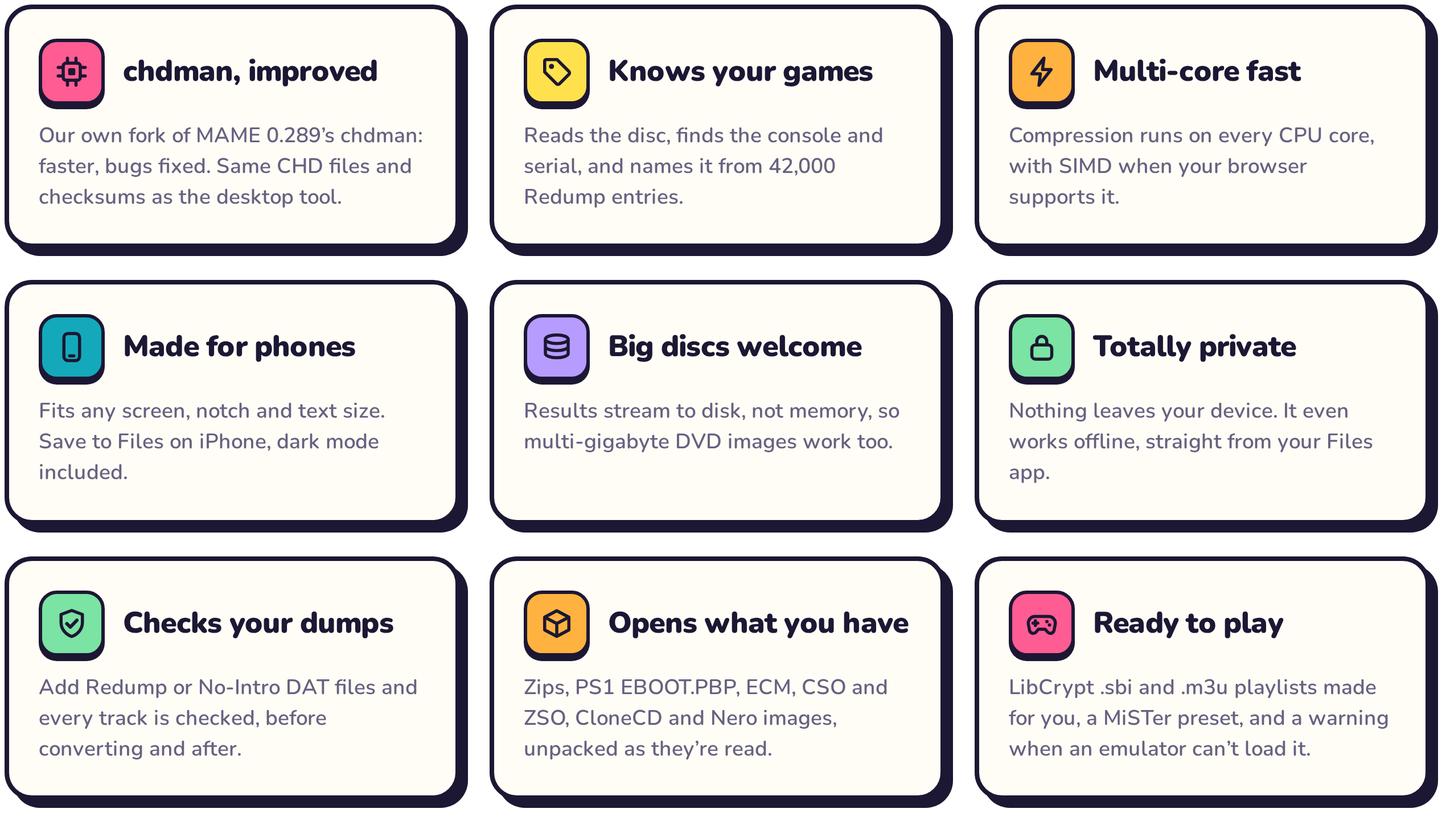
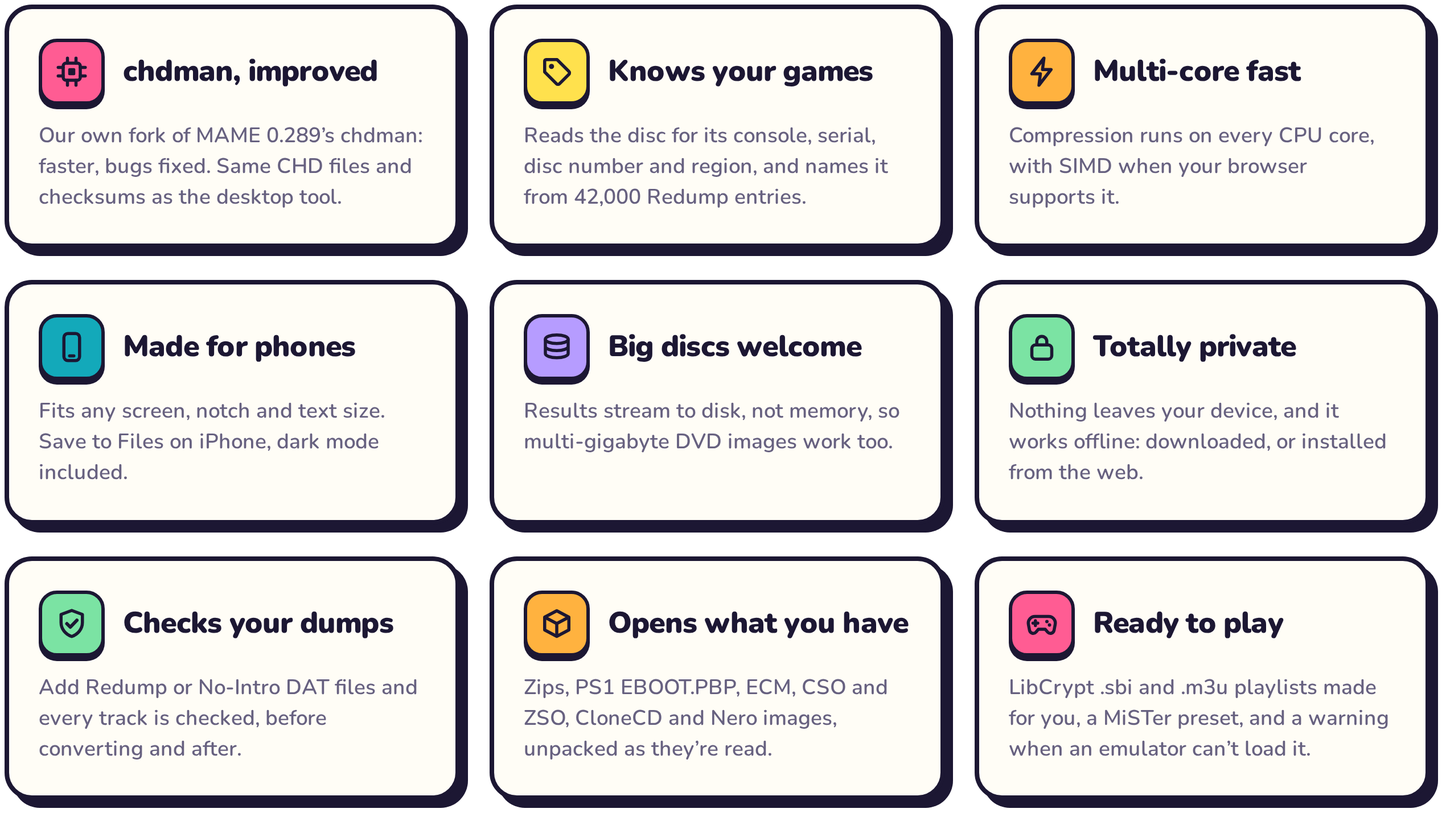
README: clearer layout, badges, what's new in 1.7, every 1.7.0 rule in the emulator tables
The graphics add Jaguar CD and PC-98, and the emulator cards cover the
settings, warnings and refusals of 1.7.0; the screenshot moves up next to
How it works, and FAQ answers render their links and code on GitHub.

Claude-Session: https://claude.ai/code/session_018W8bj2oysf1HsSk9v8vACp

Changed region(s): [[0.3421, 0.1532, 0.622, 0.2451], [0.7776, 0.4903, 0.9642, 0.5515], [0.6843, 0.5515, 0.7776, 0.5822]]

diff --git a/scripts/brand/brand.html b/scripts/brand/brand.html
@@ -219,11 +219,11 @@ body { font-family: var(--display); color: var(--text); -webkit-font-smoothing: 
 <!-- FEATURES -->
 <div class="scene feat" id="features"><div class="grid">
   <div class="f"><div class="top"><div class="icon" style="background:var(--accent)"><svg><use href="#i-chip"/></svg></div><h3>chdman, improved</h3></div><p>Our own fork of MAME 0.289’s chdman: faster, bugs fixed. Same CHD files and checksums as the desktop tool.</p></div>
-  <div class="f"><div class="top"><div class="icon" style="background:var(--accent-3)"><svg><use href="#i-tag"/></svg></div><h3>Knows your games</h3></div><p>Reads the disc, finds the console and serial, and names it from 42,000 Redump entries.</p></div>
+  <div class="f"><div class="top"><div class="icon" style="background:var(--accent-3)"><svg><use href="#i-tag"/></svg></div><h3>Knows your games</h3></div><p>Reads the disc for its console, serial, disc number and region, and names it from 42,000 Redump entries.</p></div>
   <div class="f"><div class="top"><div class="icon" style="background:var(--accent-2)"><svg><use href="#i-bolt"/></svg></div><h3>Multi-core fast</h3></div><p>Compression runs on every CPU core, with SIMD when your browser supports it.</p></div>
   <div class="f"><div class="top"><div class="icon" style="background:var(--cyan)"><svg><use href="#i-phone"/></svg></div><h3>Made for phones</h3></div><p>Fits any screen, notch and text size. Save to Files on iPhone, dark mode included.</p></div>
   <div class="f"><div class="top"><div class="icon" style="background:#b69cff"><svg><use href="#i-stack"/></svg></div><h3>Big discs welcome</h3></div><p>Results stream to disk, not memory, so multi-gigabyte DVD images work too.</p></div>
-  <div class="f"><div class="top"><div class="icon" style="background:#7be3a3"><svg><use href="#i-lock"/></svg></div><h3>Totally private</h3></div><p>Nothing leaves your device. It even works offline, straight from your Files app.</p></div>
+  <div class="f"><div class="top"><div class="icon" style="background:#7be3a3"><svg><use href="#i-lock"/></svg></div><h3>Totally private</h3></div><p>Nothing leaves your device, and it works offline: downloaded, or installed from the web.</p></div>
   <div class="f"><div class="top"><div class="icon" style="background:#7be3a3"><svg><use href="#i-shield"/></svg></div><h3>Checks your dumps</h3></div><p>Add Redump or No-Intro DAT files and every track is checked, before converting and after.</p></div>
   <div class="f"><div class="top"><div class="icon" style="background:var(--accent-2)"><svg><use href="#i-box"/></svg></div><h3>Opens what you have</h3></div><p>Zips, PS1 EBOOT.PBP, ECM, CSO and ZSO, CloneCD and Nero images, unpacked as they’re read.</p></div>
   <div class="f"><div class="top"><div class="icon" style="background:var(--accent)"><svg><use href="#i-pad"/></svg></div><h3>Ready to play</h3></div><p>LibCrypt .sbi and .m3u playlists made for you, a MiSTer preset, and a warning when an emulator can’t load it.</p></div>
@@ -241,12 +241,15 @@ body { font-family: var(--display); color: var(--text); -webkit-font-smoothing: 
 
 <!-- EMULATORS -->
 <div class="scene feat" id="emulators"><div class="grid">
-  <div class="f"><div class="top"><div class="icon" style="background:var(--accent-3)"><svg><use href="#i-alert"/></svg></div><h3>Warns in time</h3></div><p>Says when an emulator can’t read Zstd, or load a disc like this one, before you convert.</p></div>
-  <div class="f"><div class="top"><div class="icon" style="background:#b69cff"><svg><use href="#i-key"/></svg></div><h3>LibCrypt .sbi</h3></div><p>Saved next to a PAL PlayStation CHD under its name, or made from a CloneCD .sub.</p></div>
-  <div class="f"><div class="top"><div class="icon" style="background:var(--cyan)"><svg><use href="#i-list"/></svg></div><h3>.m3u playlists</h3></div><p>For games on several discs, so the emulator can swap them.</p></div>
-  <div class="f"><div class="top"><div class="icon" style="background:var(--accent)"><svg><use href="#i-chip"/></svg></div><h3>MiSTer preset</h3></div><p>Zstd and FLAC in small hunks, fast enough for MiSTer’s CD cores.</p></div>
+  <div class="f"><div class="top"><div class="icon" style="background:var(--cyan)"><svg><use href="#i-disc"/></svg></div><h3>The right CHD</h3></div><p>CD or DVD, and the hunk size each console’s emulators want, set when the game is recognized.</p></div>
+  <div class="f"><div class="top"><div class="icon" style="background:#7be3a3"><svg><use href="#i-check"/></svg></div><h3>Boots as it should</h3></div><p>Saturn and Sega CD CHDs skip the cue sheet their emulators reject; NAOMI GD-ROMs keep their romset name.</p></div>
+  <div class="f"><div class="top"><div class="icon" style="background:var(--accent-3)"><svg><use href="#i-alert"/></svg></div><h3>Warns in time</h3></div><p>Says when an emulator can’t read Zstd, or misreads a disc’s sessions, gaps or tracks, before you convert.</p></div>
+  <div class="f"><div class="top"><div class="icon" style="background:#b69cff"><svg><use href="#i-key"/></svg></div><h3>LibCrypt .sbi</h3></div><p>Saved next to a PAL PlayStation CHD, made from a CloneCD .sub, and asked for when a protected game has none.</p></div>
+  <div class="f"><div class="top"><div class="icon" style="background:var(--cyan)"><svg><use href="#i-list"/></svg></div><h3>Whole sets</h3></div><p>An .m3u playlist for games on several discs, and a note of the discs a set still needs.</p></div>
+  <div class="f"><div class="top"><div class="icon" style="background:var(--accent)"><svg><use href="#i-chip"/></svg></div><h3>MiSTer preset</h3></div><p>Zstd and FLAC in small hunks, fast enough for MiSTer’s CD cores, and a warning where it has none.</p></div>
   <div class="f"><div class="top"><div class="icon" style="background:#7be3a3"><svg><use href="#i-phone"/></svg></div><h3>Android PS2</h3></div><p>CD CHDs of DVD games, the only kind AetherSX2 and NetherSX2 read.</p></div>
-  <div class="f"><div class="top"><div class="icon" style="background:var(--accent-2)"><svg><use href="#i-info"/></svg></div><h3>Says what won’t</h3></div><p>GameCube, Wii, Xbox and PS3 discs are recognized, with a note that their emulators skip CHDs.</p></div>
+  <div class="f"><div class="top"><div class="icon" style="background:var(--accent-2)"><svg><use href="#i-info"/></svg></div><h3>Says what won’t</h3></div><p>GameCube, Wii, Xbox, PS3 and video discs are recognized, with a note that their players skip CHDs.</p></div>
+  <div class="f"><div class="top"><div class="icon" style="background:var(--surface-2)"><svg style="color:var(--text)"><use href="#i-x"/></svg></div><h3>Refuses what breaks</h3></div><p>Discs chdman 0.289 would store wrong, such as CD+G tracks, get a card that says why instead of a bad CHD.</p></div>
 </div></div>
 
 <!-- SYSTEMS -->
@@ -275,14 +278,14 @@ document.getElementById('showDesk').src = shots + 'desktop-' + theme + '.png';
 document.getElementById('showPhone').src = shots + 'phone-start-' + theme + '.png';
 var C = { ps1: ['#c8c8d4', '#1c1733'], ps2: ['#2f5bd3', '#fff'], psp: ['#26262e', '#fff'], saturn: ['#4a4f63', '#fff'], segacd: ['#1f4ea8', '#fff'],
   dc: ['#ff7a1a', '#1c1733'], naomi: ['#6a4fb8', '#fff'], pcecd: ['#f1ead6', '#1c1733'], pcfx: ['#3a3a44', '#fff'], ngcd: ['#d9b23a', '#1c1733'],
-  '3do': ['#b01e2f', '#fff'], cdi: ['#1c6fb8', '#fff'], cd32: ['#e11d48', '#fff'], cdtv: ['#33333d', '#fff'], hd: ['#13a9ba', '#1c1733'], ld: ['#ffe14d', '#1c1733'] };
+  '3do': ['#b01e2f', '#fff'], cdi: ['#1c6fb8', '#fff'], cd32: ['#e11d48', '#fff'], cdtv: ['#33333d', '#fff'], jagcd: ['#d62828', '#fff'], pc98: ['#5b6b7a', '#fff'], hd: ['#13a9ba', '#1c1733'], ld: ['#ffe14d', '#1c1733'] };
 function chip(k, label) { var s = document.createElement('span'); s.className = 'chip'; s.textContent = label; s.style.background = C[k][0]; s.style.color = C[k][1]; return s; }
 [['ps1', 'PS1'], ['ps2', 'PS2'], ['psp', 'PSP'], ['saturn', 'Saturn'], ['dc', 'Dreamcast'], ['segacd', 'Sega CD']].forEach(function (c) { document.getElementById('heroChips').appendChild(chip(c[0], c[1])); });
-var more = document.createElement('span'); more.className = 'chip'; more.textContent = '+ 10 more'; more.style.background = 'var(--surface)'; more.style.color = 'var(--text)';
+var more = document.createElement('span'); more.className = 'chip'; more.textContent = '+ 12 more'; more.style.background = 'var(--surface)'; more.style.color = 'var(--text)';
 document.getElementById('heroChips').appendChild(more);
 [['ps1', 'PlayStation'], ['ps2', 'PlayStation 2'], ['psp', 'PSP'], ['saturn', 'Saturn'], ['segacd', 'Sega CD · Mega CD'], ['dc', 'Dreamcast'], ['naomi', 'NAOMI'],
  ['pcecd', 'PC Engine CD · TurboGrafx-CD'], ['pcfx', 'PC-FX'], ['ngcd', 'Neo Geo CD'], ['3do', '3DO'], ['cdi', 'CD-i'], ['cd32', 'Amiga CD32'], ['cdtv', 'CDTV'],
- ['hd', 'Arcade hard disks'], ['ld', 'LaserDisc']].forEach(function (c) { document.getElementById('sysWrap').appendChild(chip(c[0], c[1])); });
+ ['jagcd', 'Jaguar CD'], ['pc98', 'PC-98'], ['hd', 'Arcade hard disks'], ['ld', 'LaserDisc']].forEach(function (c) { document.getElementById('sysWrap').appendChild(chip(c[0], c[1])); });
 </script>
 </body>
 </html>

diff --git a/README.md b/README.md
@@ -23,6 +23,10 @@
 </p>
 
 <p align="center">
+  <a href="https://github.com/PowerBeef/discpress/releases/latest"><img src="https://img.shields.io/github/v/release/PowerBeef/discpress?label=latest&color=ff5c93" alt="Latest release"></a>
+  <a href="https://github.com/PowerBeef/discpress/actions/workflows/ci.yml"><img src="https://github.com/PowerBeef/discpress/actions/workflows/ci.yml/badge.svg" alt="CI"></a>
+  <a href="LICENSE"><img src="https://img.shields.io/badge/license-BSD--3--Clause-13a9ba" alt="BSD 3-Clause license"></a>
+  <br><br>
   <b>Free and open source</b> &nbsp;·&nbsp; <b>No install</b> &nbsp;·&nbsp; <b>Nothing uploaded</b> &nbsp;·&nbsp; <b>Phone and desktop</b>
   <br><br>
   <a href="#how-it-works">How it works</a> &nbsp;·&nbsp;
@@ -34,15 +38,24 @@
   <a href="#build-it-yourself">Build it yourself</a>
 </p>
 
+> [!TIP]
+> **New in 1.7: Discpress knows your games better.** US Sega discs, second discs and regional releases get their right names; Jaguar CD, Video CD and more discs are recognized; and you are warned before you make a CHD your emulator can't play. [See what's new](https://github.com/PowerBeef/discpress/releases/latest).
+
 <img src="docs/brand/divider.png" width="100%" alt="">
 
 ## What is Discpress?
 
-A single PlayStation or Saturn game can be a dozen `.bin` files plus a `.cue`. **CHD** packs the whole disc into one compressed file that takes much less space, loses nothing, and loads directly in MAME, RetroArch, DuckStation, PCSX2, PPSSPP, Flycast, MiSTer and more.
+A single PlayStation or Saturn game can be a dozen `.bin` files plus a `.cue`. **CHD** packs the whole disc into one compressed file: much smaller, nothing lost, and loaded directly by MAME, RetroArch, DuckStation, PCSX2, PPSSPP, Flycast, MiSTer and more.
 
-The standard tool for making CHDs is **chdman**, a command-line program from the MAME project. **Discpress** puts its own fork of chdman (MAME 0.289, faster, with its bugs fixed) inside a friendly app that runs in your browser, on your phone or your computer. It makes the very same CHD files as chdman 0.289, names each game after its official title, checks your dumps, and opens the formats your games come in. Nothing to install, and your files never leave your device.
+The standard tool for making CHDs is **chdman**, a command-line program from the MAME project. **Discpress** runs its own fork of chdman (MAME 0.289, faster, with its bugs fixed) in a friendly app in your browser, on your phone or your computer. It:
 
-**Download it** as one HTML file that works anywhere, even offline, or **use it online** with nothing to download: the way to convert big games on iPhone and iPad.
+- makes **the very same CHD files** as chdman 0.289;
+- **names each game** after its official title, from the Redump database;
+- **checks your dumps** against Redump and your DAT files;
+- **opens the files your games come in**: cue sheets, `.gdi`, `.iso`, `.zip`, ECM, CSO, `EBOOT.PBP` and more;
+- **warns you** before you make a CHD your emulator can't play.
+
+There is nothing to install, and your files never leave your device. **Download it** as one HTML file that works anywhere, even offline, or **use it online** with nothing to download (the way to convert big games on iPhone and iPad).
 
 ## How it works
 
@@ -55,6 +68,13 @@ The standard tool for making CHDs is **chdman**, a command-line program from the
   </picture>
 </p>
 
+<p align="center">
+  <picture>
+    <source media="(prefers-color-scheme: dark)" srcset="docs/brand/showcase-dark.png">
+    <img src="docs/brand/showcase-light.png" width="100%" alt="Discpress on a desktop browser with a Saturn game converted and a PlayStation disc identified as Metal Gear Solid (USA) (Disc 1), next to the phone version.">
+  </picture>
+</p>
+
 ## Features
 
 <p align="center">
@@ -62,7 +82,7 @@ The standard tool for making CHDs is **chdman**, a command-line program from the
     <source media="(max-width: 600px) and (prefers-color-scheme: dark)" srcset="docs/brand/features-mobile-dark.png">
     <source media="(max-width: 600px)" srcset="docs/brand/features-mobile-light.png">
     <source media="(prefers-color-scheme: dark)" srcset="docs/brand/features-dark.png">
-    <img src="docs/brand/features-light.png" width="100%" alt="chdman, improved. Knows your games. Multi-core fast. Made for phones. Big discs welcome. Totally private. Checks your dumps. Opens what you have. Ready to play.">
+    <img src="docs/brand/features-light.png" width="100%" alt="chdman, improved. Knows your games: console, serial, disc number and region, named from 42,000 Redump entries. Multi-core fast. Made for phones. Big discs welcome. Totally private. Checks your dumps. Opens what you have. Ready to play.">
   </picture>
 </p>
 
@@ -72,15 +92,15 @@ The standard tool for making CHDs is **chdman**, a command-line program from the
 
 **Converting**
 
-- **Real chdman output.** Discpress makes standard CHD v5 files, byte for byte the same as desktop chdman 0.289 makes on Linux, with the same checksums as any chdman 0.289.
-- **The right command, picked for you:** `createcd`, `createdvd`, `createhd`, `createld`, `extractcd`, `extractdvd`, `extracthd`, `verify` and `info`, with the type and hunk size each console's emulators need. The **Advanced** tab gives you every chdman command and option, including `copy`, parent CHDs, `addmeta` and hard disk templates.
+- **Real chdman output.** Standard CHD v5 files, byte for byte the same as desktop chdman 0.289 makes on Linux, with the same checksums as any chdman 0.289.
+- **The right command, picked for you:** `createcd`, `createdvd`, `createhd`, `createld`, `extractcd`, `extractdvd`, `extracthd`, `verify` and `info`, with the type and hunk size each console's emulators need. The **Advanced** tab has every chdman command and option, including `copy`, parent CHDs, `addmeta` and hard disk templates.
 - **Compression to suit you.** *Smallest* (the default) is chdman's own. *Nearly as small, faster* tries each track only with the codec that suits it: about 1.7 times as fast for CDs, at most 0.3% bigger, same checksums. *Faster to create*, *Faster to load (Zstd)*, *For MiSTer FPGA* and *No compression* are there too.
 - **Fast.** Compression is spread over all your CPU cores, with WebAssembly SIMD when your browser supports it. Extracting and verifying use several cores too.
 - **Back again.** A CHD extracts to its Redump dump: the same cue sheet and one `.bin` per track, so the files match Redump's checksums. Settings → *Keep the cue sheet in CD CHDs* also keeps what a CHD doesn't otherwise hold (CATALOG, FLAGS, ISRC, extra indexes), for discs that have it.
 
 **Knowing your games**
 
-- **Game recognition.** Discpress reads the disc's own boot files to find the console and serial number, then looks the game up in a built-in copy of the [Redump](http://redump.org) database (about 42,000 discs). When the size and CRC-32 match, the dump is marked as verified. When several releases share a serial number, you choose which one.
+- **Game recognition.** Discpress reads the disc's own boot files to find the console, the serial number, which disc of a set it is and its region. It then looks the game up in a built-in copy of the [Redump](http://redump.org) database (about 42,000 discs). When the size and CRC-32 match, the dump is marked as verified. When several releases still fit, you choose which one.
 - **Official names.** For example `Metal Gear Solid (USA) (Disc 1).chd`. You can also type your own name, turn renaming off, or use **Rename** to fix the name of a CHD you already have.
 - **Your DAT files.** Add Redump or No-Intro DAT files (the `.dat` or `.xml`, or the `.zip` they come in) and every track of a disc is checked against them by size and CRC-32: before converting, and for a CHD after **Verify**, without extracting it. A disc whose every track matches is named after its DAT entry. The DATs are kept in the browser for your next visits.
 - **Verify** checks a CHD's own checksums, then compares it with Redump without extracting it.
@@ -89,13 +109,14 @@ The standard tool for making CHDs is **chdman**, a command-line program from the
 
 - **Archives and packed images are opened as they are read:** `.zip` archives (zip64 included), ECM images (`.bin.ecm`), CSO and ZSO compressed ISOs, and PlayStation `EBOOT.PBP` files made with popstation, one card per disc. Each is checked as it is unpacked.
 - **Disc images of every common kind:** cue sheets and their tracks, Dreamcast `.gdi` sets, `.iso` images (2,048- or 2,352-byte sectors), CloneCD (`.ccd` + `.img` + `.sub`), Nero (`.nrg`) and cdrdao (`.toc`). Cue sheets in odd encodings, with lower-case keywords or Windows line ends, are read correctly.
-- **Clear refusals.** Formats chdman can't take (DiscJuggler `.cdi`, Alcohol 120% `.mds`/`.mdf`, `.isz`, `.7z`, `.rar`) get a card that says why and what to do instead.
+- **Clear refusals.** Formats chdman can't take (DiscJuggler `.cdi`, Alcohol 120% `.mds`/`.mdf`, `.isz`, `.7z`, `.rar`), and discs chdman 0.289 would store wrong (CD+G tracks), get a card that says why and what to do instead.
 
 **Ready for your emulator** (see [below](#ready-for-your-emulator))
 
-- **LibCrypt `.sbi` files** for PAL PlayStation games: one you add (or DuckStation's `.lsd`) is saved next to the CHD under its name, for a CloneCD dump the page makes it from the `.sub` file, and a protected game added without one says so.
-- **`.m3u` playlists** for games on several discs, so the emulator can swap them.
-- **Warnings where an emulator can't load the result**, and settings that suit the console's emulators.
+- **Settings that boot:** the CHD type and hunk size each console needs, and nothing its emulators reject.
+- **LibCrypt `.sbi` files** for PAL PlayStation games: one you add (or DuckStation's `.lsd`) is saved next to the CHD under its name, a CloneCD dump's is made from its `.sub` file, and a protected game added without one says so.
+- **`.m3u` playlists** for games on several discs, so the emulator can swap them, and a note of the discs a set still needs.
+- **Warnings where an emulator can't load the result**, before you convert.
 
 **Phones, big files and privacy**
 
@@ -112,7 +133,7 @@ The standard tool for making CHDs is **chdman**, a command-line program from the
     <source media="(max-width: 600px) and (prefers-color-scheme: dark)" srcset="docs/brand/systems-mobile-dark.png">
     <source media="(max-width: 600px)" srcset="docs/brand/systems-mobile-light.png">
     <source media="(prefers-color-scheme: dark)" srcset="docs/brand/systems-dark.png">
-    <img src="docs/brand/systems-light.png" width="100%" alt="PlayStation, PlayStation 2, PSP, Saturn, Sega CD / Mega CD, Dreamcast, NAOMI, PC Engine CD / TurboGrafx-CD, PC-FX, Neo Geo CD, 3DO, CD-i, Amiga CD32, CDTV, arcade hard disks and LaserDisc.">
+    <img src="docs/brand/systems-light.png" width="100%" alt="PlayStation, PlayStation 2, PSP, Saturn, Sega CD / Mega CD, Dreamcast, NAOMI, PC Engine CD / TurboGrafx-CD, PC-FX, Neo Geo CD, 3DO, CD-i, Amiga CD32, CDTV, Jaguar CD, PC-98, arcade hard disks and LaserDisc.">
   </picture>
 </p>
 
@@ -132,13 +153,15 @@ The standard tool for making CHDs is **chdman**, a command-line program from the
 | System | Add these files | Becomes |
 |---|---|---|
 | PlayStation | `.cue` + `.bin`, CloneCD `.ccd` + `.img` + `.sub`, or an `EBOOT.PBP` made with popstation | CD CHD (one per disc) |
-| Saturn, Sega CD, PC Engine CD, Neo Geo CD, 3DO, CD-i, Amiga CD32, CDTV, PC-FX | `.cue` + `.bin`, or CloneCD `.ccd` + `.img` | CD CHD |
+| Saturn, Sega CD, PC Engine CD, PC-FX, Neo Geo CD, 3DO, CD-i, Amiga CD32, CDTV, Jaguar CD, PC-98 | `.cue` + `.bin`, or CloneCD `.ccd` + `.img` | CD CHD |
 | Dreamcast and NAOMI | `.gdi` + tracks, or Redump `.cue` + `.bin` | CD CHD (GD-ROM detected) |
-| PlayStation 2 | DVD games: `.iso`, `.cso` or `.zso` · CD games: `.cue` + `.bin` | DVD or CD CHD |
+| PlayStation 2 | DVD games: `.iso`, `.cso` or `.zso` · CD games: `.cue` + `.bin` | DVD or CD CHD, told apart by the disc's file system |
 | PSP | `.iso`, `.cso` or `.zso` | DVD CHD, with the 2,048-byte hunks PPSSPP recommends |
 | Arcade and computer hard disks | `.img`, `.hdd` | Hard disk CHD |
 | LaserDisc arcade games | `.avi` | LaserDisc CHD |
 | Any of the above | `.chd` | Back to `.cue`/`.bin` (by default the Redump dump's own files), `.gdi` or `.iso` |
+
+GameCube, Wii, Xbox and PS3 discs, Video CDs, DVD-Video, Blu-ray and UMD Video discs are recognized too, with a note that their emulators or players don't load CHDs.
 
 </details>
 
@@ -153,6 +176,7 @@ The standard tool for making CHDs is **chdman**, a command-line program from the
 | UltraISO `.isz` | Convert it to `.iso` with UltraISO first |
 | `.7z`, `.rar` | Unpack them, or zip the files instead |
 | Encrypted `EBOOT.PBP` (PlayStation Store) | Use a dump of the disc |
+| A cue sheet with CD+G tracks (karaoke discs) | Keep the original files: chdman 0.289 can't store CD+G tracks |
 
 A lone `.bin` or raw `.iso` without its cue sheet works for single-track data discs: one is generated.
 
@@ -160,44 +184,56 @@ A lone `.bin` or raw `.iso` without its cue sheet works for single-track data di
 
 ## Ready for your emulator
 
-The right CHD type and hunk size for each console, compression that every emulator reads unless you choose otherwise, and the files your emulator wants next to the CHD.
+The right CHD type and hunk size for each console, compression that every emulator reads unless you choose otherwise, the files your emulator wants next to the CHD, and a warning before you make one it can't play.
 
 <p align="center">
   <picture>
     <source media="(max-width: 600px) and (prefers-color-scheme: dark)" srcset="docs/brand/emulators-mobile-dark.png">
     <source media="(max-width: 600px)" srcset="docs/brand/emulators-mobile-light.png">
     <source media="(prefers-color-scheme: dark)" srcset="docs/brand/emulators-dark.png">
-    <img src="docs/brand/emulators-light.png" width="100%" alt="Warns in time: says when an emulator can't read Zstd, or load a disc like this one. LibCrypt .sbi: saved next to a PAL PlayStation CHD, or made from a CloneCD .sub. .m3u playlists for games on several discs. MiSTer preset. Android PS2: CD CHDs of DVD games for AetherSX2 and NetherSX2. Says what won't: GameCube, Wii, Xbox and PS3 discs are recognized, with a note that their emulators skip CHDs.">
+    <img src="docs/brand/emulators-light.png" width="100%" alt="The right CHD: CD or DVD, and the hunk size each console's emulators want. Boots as it should: Saturn and Sega CD CHDs skip the cue sheet their emulators reject; NAOMI GD-ROMs keep their romset name. Warns in time: says when an emulator can't read Zstd, or misreads a disc's sessions, gaps or tracks. LibCrypt .sbi: saved next to a PAL PlayStation CHD, made from a CloneCD .sub, and asked for when a protected game has none. Whole sets: .m3u playlists and a note of the discs a set still needs. MiSTer preset. Android PS2: CD CHDs of DVD games for AetherSX2 and NetherSX2. Says what won't: GameCube, Wii, Xbox, PS3 and video discs. Refuses what breaks: discs chdman 0.289 would store wrong, such as CD+G tracks.">
   </picture>
 </p>
 
 <details>
-<summary><b>Every warning and setting</b></summary>
+<summary><b>Settings it picks for you</b></summary>
 <br>
 
 | When | What Discpress does |
 |---|---|
-| Zstd (or the MiSTer preset) for Saturn, Sega CD, PC Engine CD, 3DO, Amiga, PlayStation, PS2, Dreamcast, NAOMI or PC-FX | Warns: Kronos, Yabause, BlastEm, Beetle SuperGrafx, Opera, WinUAE, SwanStation before March 2026, AetherSX2, Flycast before 2.3 and older Beetle PC-FX can't read it |
-| Keeping the cue sheet, for a Saturn or Sega CD game | Leaves it out and says why: Kronos, Yabause and jgenesis can't open such a CHD |
+| A PSP game | Makes a DVD CHD with 2,048-byte hunks, as PPSSPP recommends |
+| A PS2 game | Makes a DVD or a CD CHD, as the disc was; Settings → *PlayStation 2 DVD games* makes CD CHDs of DVD games for AetherSX2 and NetherSX2 |
+| A Dreamcast or NAOMI GD-ROM | Stores it as a GD-ROM, from a `.gdi` or a Redump cue sheet |
+| *Keep the cue sheet* on, for a Saturn or Sega CD game | Leaves it out and says why: Kronos, Yabause and jgenesis can't open such a CHD |
 | A NAOMI GD-ROM | Keeps its file's name, which MAME and Flycast look for in the game's romset |
-| A PS2 game on CD with music tracks | Notes that PCSX2 plays only the first track of a CD CHD |
-| A CD-based Dreamcast disc with pregaps | Notes that Flycast 2.7 and earlier can't load it |
-| A PAL PlayStation game with LibCrypt | Saves its `.sbi` under the CHD's name, where DuckStation, Beetle PSX, SwanStation, PCSX ReARMed and MiSTer look for it, and warns when it is missing |
-| Two or more discs of a game | Offers an `.m3u` playlist on the first disc's card |
-| PS2 DVD games for AetherSX2 or NetherSX2 | Settings → *PlayStation 2 DVD games* makes CD CHDs |
-| MiSTer FPGA | *For MiSTer FPGA*: Zstd and FLAC in 4-sector hunks; warns for consoles MiSTer has no core for |
-| GameCube, Wii, Xbox or PS3 | A note that their emulators don't load CHDs |
+| A PAL PlayStation game with LibCrypt | Saves its `.sbi` (or `.lsd`) under the CHD's name, where DuckStation, Beetle PSX, SwanStation, PCSX ReARMed and MiSTer look for it |
+| Two or more discs of a game | Offers an `.m3u` playlist on the first disc's card, and says how many discs the set has until all are converted |
+| *For MiSTer FPGA* | Zstd and FLAC in 4-sector hunks |
 
 </details>
 
-## See it in action
+<details>
+<summary><b>Warnings and notes</b></summary>
+<br>
 
-<p align="center">
-  <picture>
-    <source media="(prefers-color-scheme: dark)" srcset="docs/brand/showcase-dark.png">
-    <img src="docs/brand/showcase-light.png" width="100%" alt="Discpress on a desktop browser with a Saturn game converted and a PlayStation disc identified as Metal Gear Solid (USA) (Disc 1), next to the phone version.">
-  </picture>
-</p>
+| When | What the card says |
+|---|---|
+| Zstd, or the MiSTer preset | Which of the console's emulators can't read it: Kronos and Yabause (Saturn), BlastEm (Sega CD), Beetle SuperGrafx (PC Engine CD), Opera (3DO), WinUAE (CD32, CDTV), SwanStation before March 2026 (PlayStation), AetherSX2 and NetherSX2 (PS2), Flycast before 2.3 (Dreamcast, NAOMI), Beetle PC-FX before August 2026 |
+| The MiSTer preset, for Dreamcast, NAOMI, PS2, PC-FX, PC-98 or Jaguar CD | That MiSTer has no core that plays them from CHDs |
+| A LibCrypt game without its `.sbi` | That emulators stop it partway, and where to get the file |
+| A 2,048-byte copy of a PlayStation disc | That its videos and sound may be missing and Beetle PSX can't load it: convert the `.bin` and `.cue` dump instead |
+| A disc with several sessions (CD-Extra, MIL-CD) | That emulators read the later sessions from the wrong place; for a Jaguar CD, that its emulators may not load it at all |
+| A CD-based Dreamcast disc with pregaps, or MODE2/2048 or MODE2/2324 tracks | That Flycast 2.7 and earlier, or any Flycast, can't load it |
+| A PS2 game on CD with music tracks | That PCSX2 plays only the first track of a CD CHD |
+| PREGAP or POSTGAP lines in a cue sheet | Which emulators read the tracks after them from the wrong place: Beetle Saturn, Kronos and Yabause; Beetle PCE, Geargrafx, Beetle PC-FX and Beetle PSX; ares; NeoCD |
+| Sega CD layouts | When Genesis Plus GX misses tracks after a second data track, PicoDrive won't take a disc of 80 minutes or more, or BlastEm starts music late |
+| A Neo Geo CD with a Mode 2 track | That NeoCD can't load it |
+| A UMD Video | That it's a film, which PPSSPP doesn't play |
+| GameCube, Wii, Xbox or PS3; Video CDs and video discs | That their emulators or players don't load CHDs |
+
+More than two notes on one card are grouped under *Emulator notes*; warnings always stay in view.
+
+</details>
 
 ## Get started
 
@@ -223,24 +259,32 @@ The right CHD type and hunk size for each console, compression that every emulat
 <details>
 <summary><b>Are my games uploaded anywhere?</b></summary>
 <br>
-No. Discpress is a single file that runs entirely on your device, downloaded or online. It makes no network requests and works in airplane mode: its Content-Security-Policy (`connect-src 'none'`) forbids the page any connection, in the downloaded file and on [powerbeef.github.io/discpress/](https://powerbeef.github.io/discpress/) alike. The online version is the release file byte for byte; each release lists its SHA-256 (`discpress.html.sha256`), and the site has the same file, so you can compare them. Opening it online is an ordinary visit to a GitHub Pages site: GitHub sees the request for the page, as for any website, never your files. It sets no cookies and has no analytics. The downloaded file doesn't contact anything at all, and DAT files you add stay in your browser.
+
+No. Discpress runs entirely on your device, downloaded or online, and works in airplane mode. Its Content-Security-Policy (`connect-src 'none'`) forbids the page any network connection, in the downloaded file and on [powerbeef.github.io/discpress/](https://powerbeef.github.io/discpress/) alike. There are no cookies and no analytics, and the DAT files you add stay in your browser.
+
+Opening the online version is an ordinary visit to a GitHub Pages site: GitHub sees the request for the page, never your files. That page is the release file byte for byte: each release lists its SHA-256 (`discpress.html.sha256`), and the site serves the same file, so you can compare them.
 </details>
 
 <details>
 <summary><b>Are the CHDs as good as the ones from desktop chdman?</b></summary>
 <br>
-Yes. Discpress runs chdman from the official MAME 0.289 release, so the files are standard CHD v5 with the same checksums as desktop chdman 0.289's, and byte for byte the same as chdman 0.289 makes on Linux, CD audio included. (chdman builds for Windows or macOS round the FLAC encoder's floating-point math differently, so their CD-audio bytes can differ from each other's and from Discpress's, never the audio itself.) Its source is in <a href="engine/README.md"><code>engine/</code></a>. The changes let it run in a browser and on several cores, make it faster without changing a byte, read packed images, and fix chdman 0.289's crashes on bad input. Some opt-in choices change the bytes but not the checksums: the faster compressions, Zstd, the MiSTer preset, and keeping cue sheets in CD CHDs. You can read every change in <a href="engine/mame-0.289.diff"><code>engine/mame-0.289.diff</code></a>.
+
+Yes. Discpress runs chdman from the official MAME 0.289 release, so its files are standard CHD v5 with the same checksums as desktop chdman 0.289's, and byte for byte the same as chdman 0.289 makes on Linux, CD audio included. (chdman builds for Windows or macOS round the FLAC encoder's math differently, so their CD-audio bytes can differ, never the audio itself.)
+
+Its source is in <a href="engine/README.md"><code>engine/</code></a>, and <a href="engine/mame-0.289.diff"><code>engine/mame-0.289.diff</code></a> lists every change: running in a browser and on several cores, more speed without changing a byte, packed images, and fixes for chdman 0.289's crashes on bad input. Only opt-in choices change the bytes (never the checksums): the faster compressions, Zstd, the MiSTer preset, and keeping cue sheets in CD CHDs.
 </details>
 
 <details>
 <summary><b>Which compression should I choose?</b></summary>
 <br>
+
 Keep the default, <i>Smallest</i>, unless you have a reason not to: every emulator reads it. <i>Nearly as small, faster</i> is the best trade when you convert a lot (about 1.7 times as fast for CDs, 1.5 for DVDs, files at most 0.3% bigger). <i>Faster to load (Zstd)</i> helps weak devices, but some emulators can't read it, and the card says which. On MiSTer, use <i>For MiSTer FPGA</i>.
 </details>
 
 <details>
 <summary><b>How do I check my games against Redump or No-Intro?</b></summary>
 <br>
+
 Every disc is already looked up in the built-in Redump database, which lists one file per game: the ISO, the only <code>.bin</code> or the main data track. To check <i>every</i> track, download the DAT files for your consoles from <a href="http://redump.org/downloads/">Redump</a> or No-Intro and add them, with your games or in Settings → <i>Your DAT files</i>. Each disc then says whether all its tracks match a game in them, before you convert it; a CHD says so after <b>Verify</b>. A fully matched disc is named after the DAT entry.
 </details>
 
@@ -262,24 +306,28 @@ The downloaded file and the online version work the same in each of them. On iPh
 <details>
 <summary><b>How big can a disc be?</b></summary>
 <br>
+
 Multi-gigabyte DVD images work as long as your device has the free space, because results are written to disk rather than memory. Creating a CHD is CPU-heavy, so expect a few minutes per CD on a computer and longer on a phone; the faster compressions in Options trade a little size for speed.
 </details>
 
 <details>
 <summary><b>My game says "not recognized". Is something wrong?</b></summary>
 <br>
+
 No. Hacks, translations, homebrew and modified dumps aren't in the Redump database, so they keep their original file name. The conversion works exactly the same. You can also type any name you like in Options.
 </details>
 
 <details>
 <summary><b>Can I turn a CHD back into a .cue/.bin or .iso?</b></summary>
 <br>
+
 Yes. Add the <code>.chd</code> and choose Extract. A CD comes back as its Redump dump: the same cue sheet and <code>.bin</code> files. For discs whose cue sheet holds more than a CHD stores (CATALOG, FLAGS, ISRC, extra indexes: common on PC Engine CD, 3DO and CD-i), turn on Settings → <i>Keep the cue sheet in CD CHDs</i> before converting, and that sheet comes back too. Saturn and Sega CD games leave it out, since Kronos, Yabause and jgenesis can't open a CHD that keeps one. You can also verify a CHD's checksums, which compares it with Redump too, or view its details.
 </details>
 
 <details>
 <summary><b>Does Discpress come with any games?</b></summary>
 <br>
+
 No. It only converts files you already have. Please convert only discs you own.
 </details>
 
@@ -307,7 +355,7 @@ source ~/emsdk/emsdk_env.sh
 - `tests/` has end-to-end UI tests (Playwright) that check every conversion against native chdman, with synthetic disc images of every supported kind, plus conversion benchmarks. CI runs them on every push and pull request (`.github/workflows/ci.yml`). See [`tests/README.md`](tests/README.md).
 - To refresh the game database with the latest Redump data, run `./scripts/update-db.sh`, then `python3 scripts/assemble.py`.
 - The README graphics are rendered from `scripts/brand/brand.html` with `python3 scripts/brand/render.py`, after `python3 scripts/brand/screenshots.py` takes the app screenshots they show (both need Playwright).
-- Running **Actions → Release → Run workflow** on `main` with a tag such as `v1.5.0` (always `vX.Y.Z`: there are no prereleases) publishes a release: `discpress.html` and its SHA-256 as the download, and the same file on GitHub Pages as the online version. The download goes public only once the site is deployed, so both always carry the same version; a daily check (`scripts/check-release.sh`) confirms it. See `.github/workflows/release.yml` and [`web/README.md`](web/README.md). Release notes come from `.github/release-notes/<tag>.md` when that file exists.
+- Running **Actions → Release → Run workflow** on `main` with a tag such as `v1.7.1` (always `vX.Y.Z`: there are no prereleases) publishes a release: `discpress.html` and its SHA-256 as the download, and the same file on GitHub Pages as the online version. The download goes public only once the site is deployed, so both always carry the same version; a daily check (`scripts/check-release.sh`) confirms it. See `.github/workflows/release.yml` and [`web/README.md`](web/README.md). Release notes come from `.github/release-notes/<tag>.md` when that file exists.
 
 </details>
 
